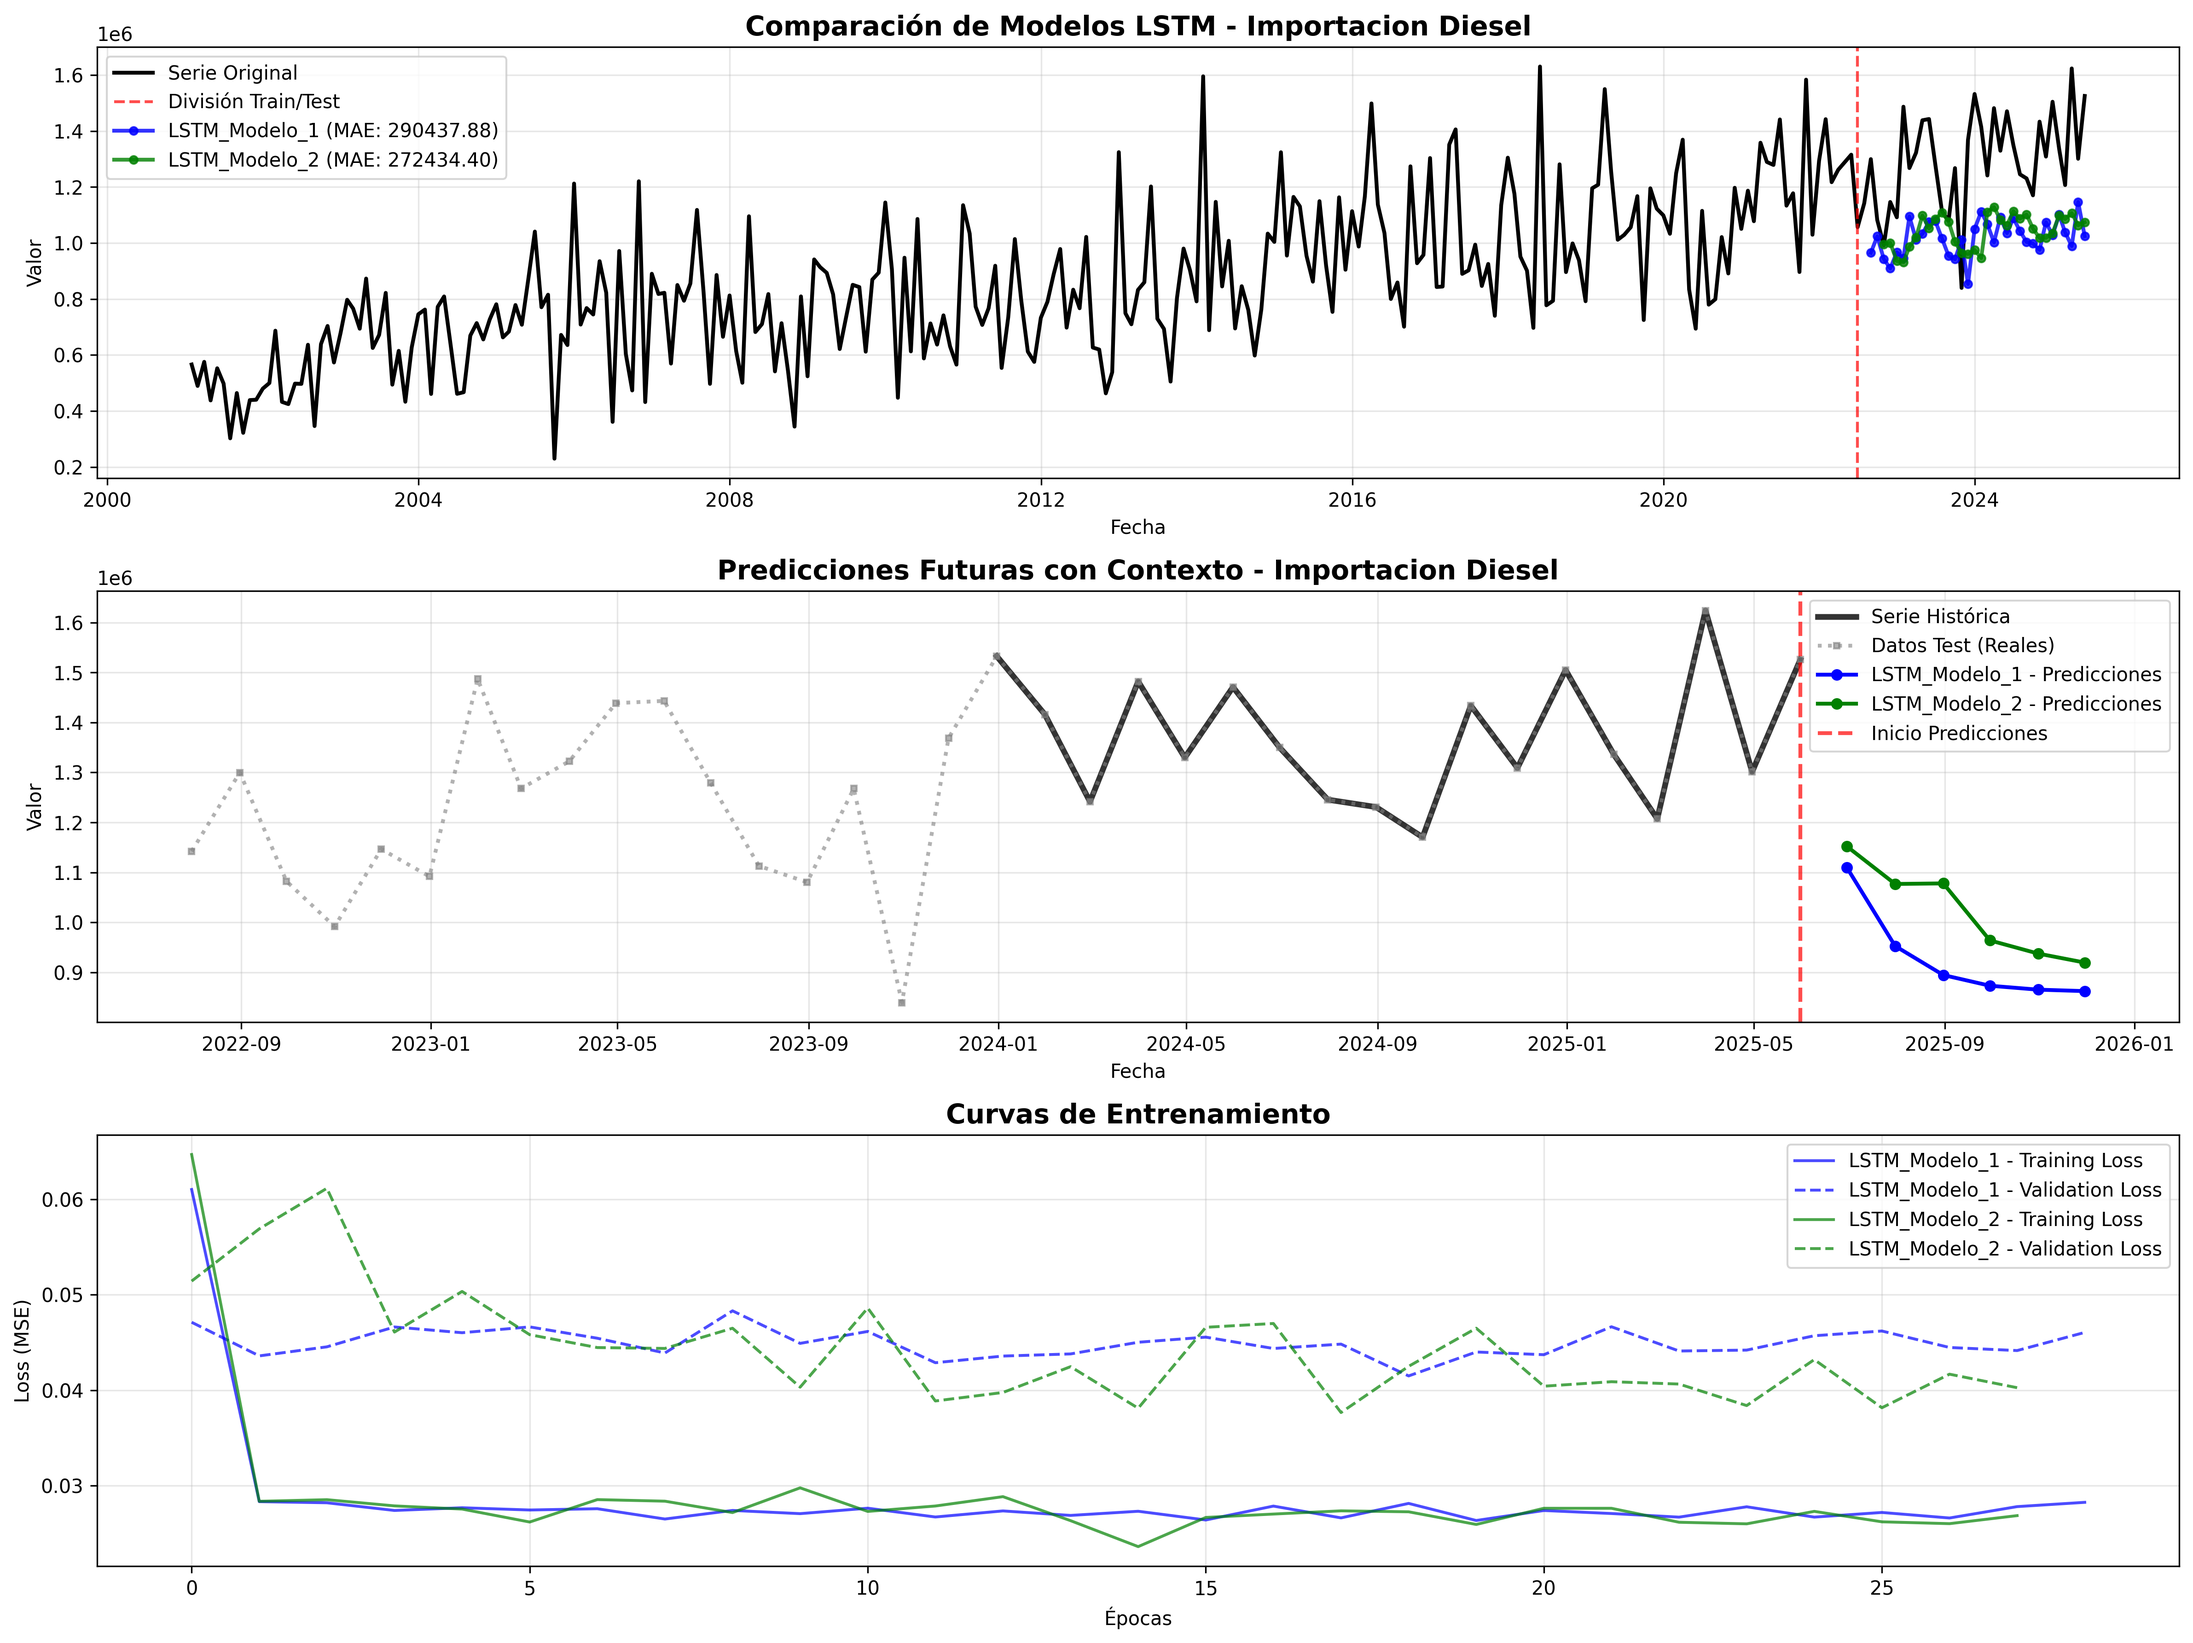
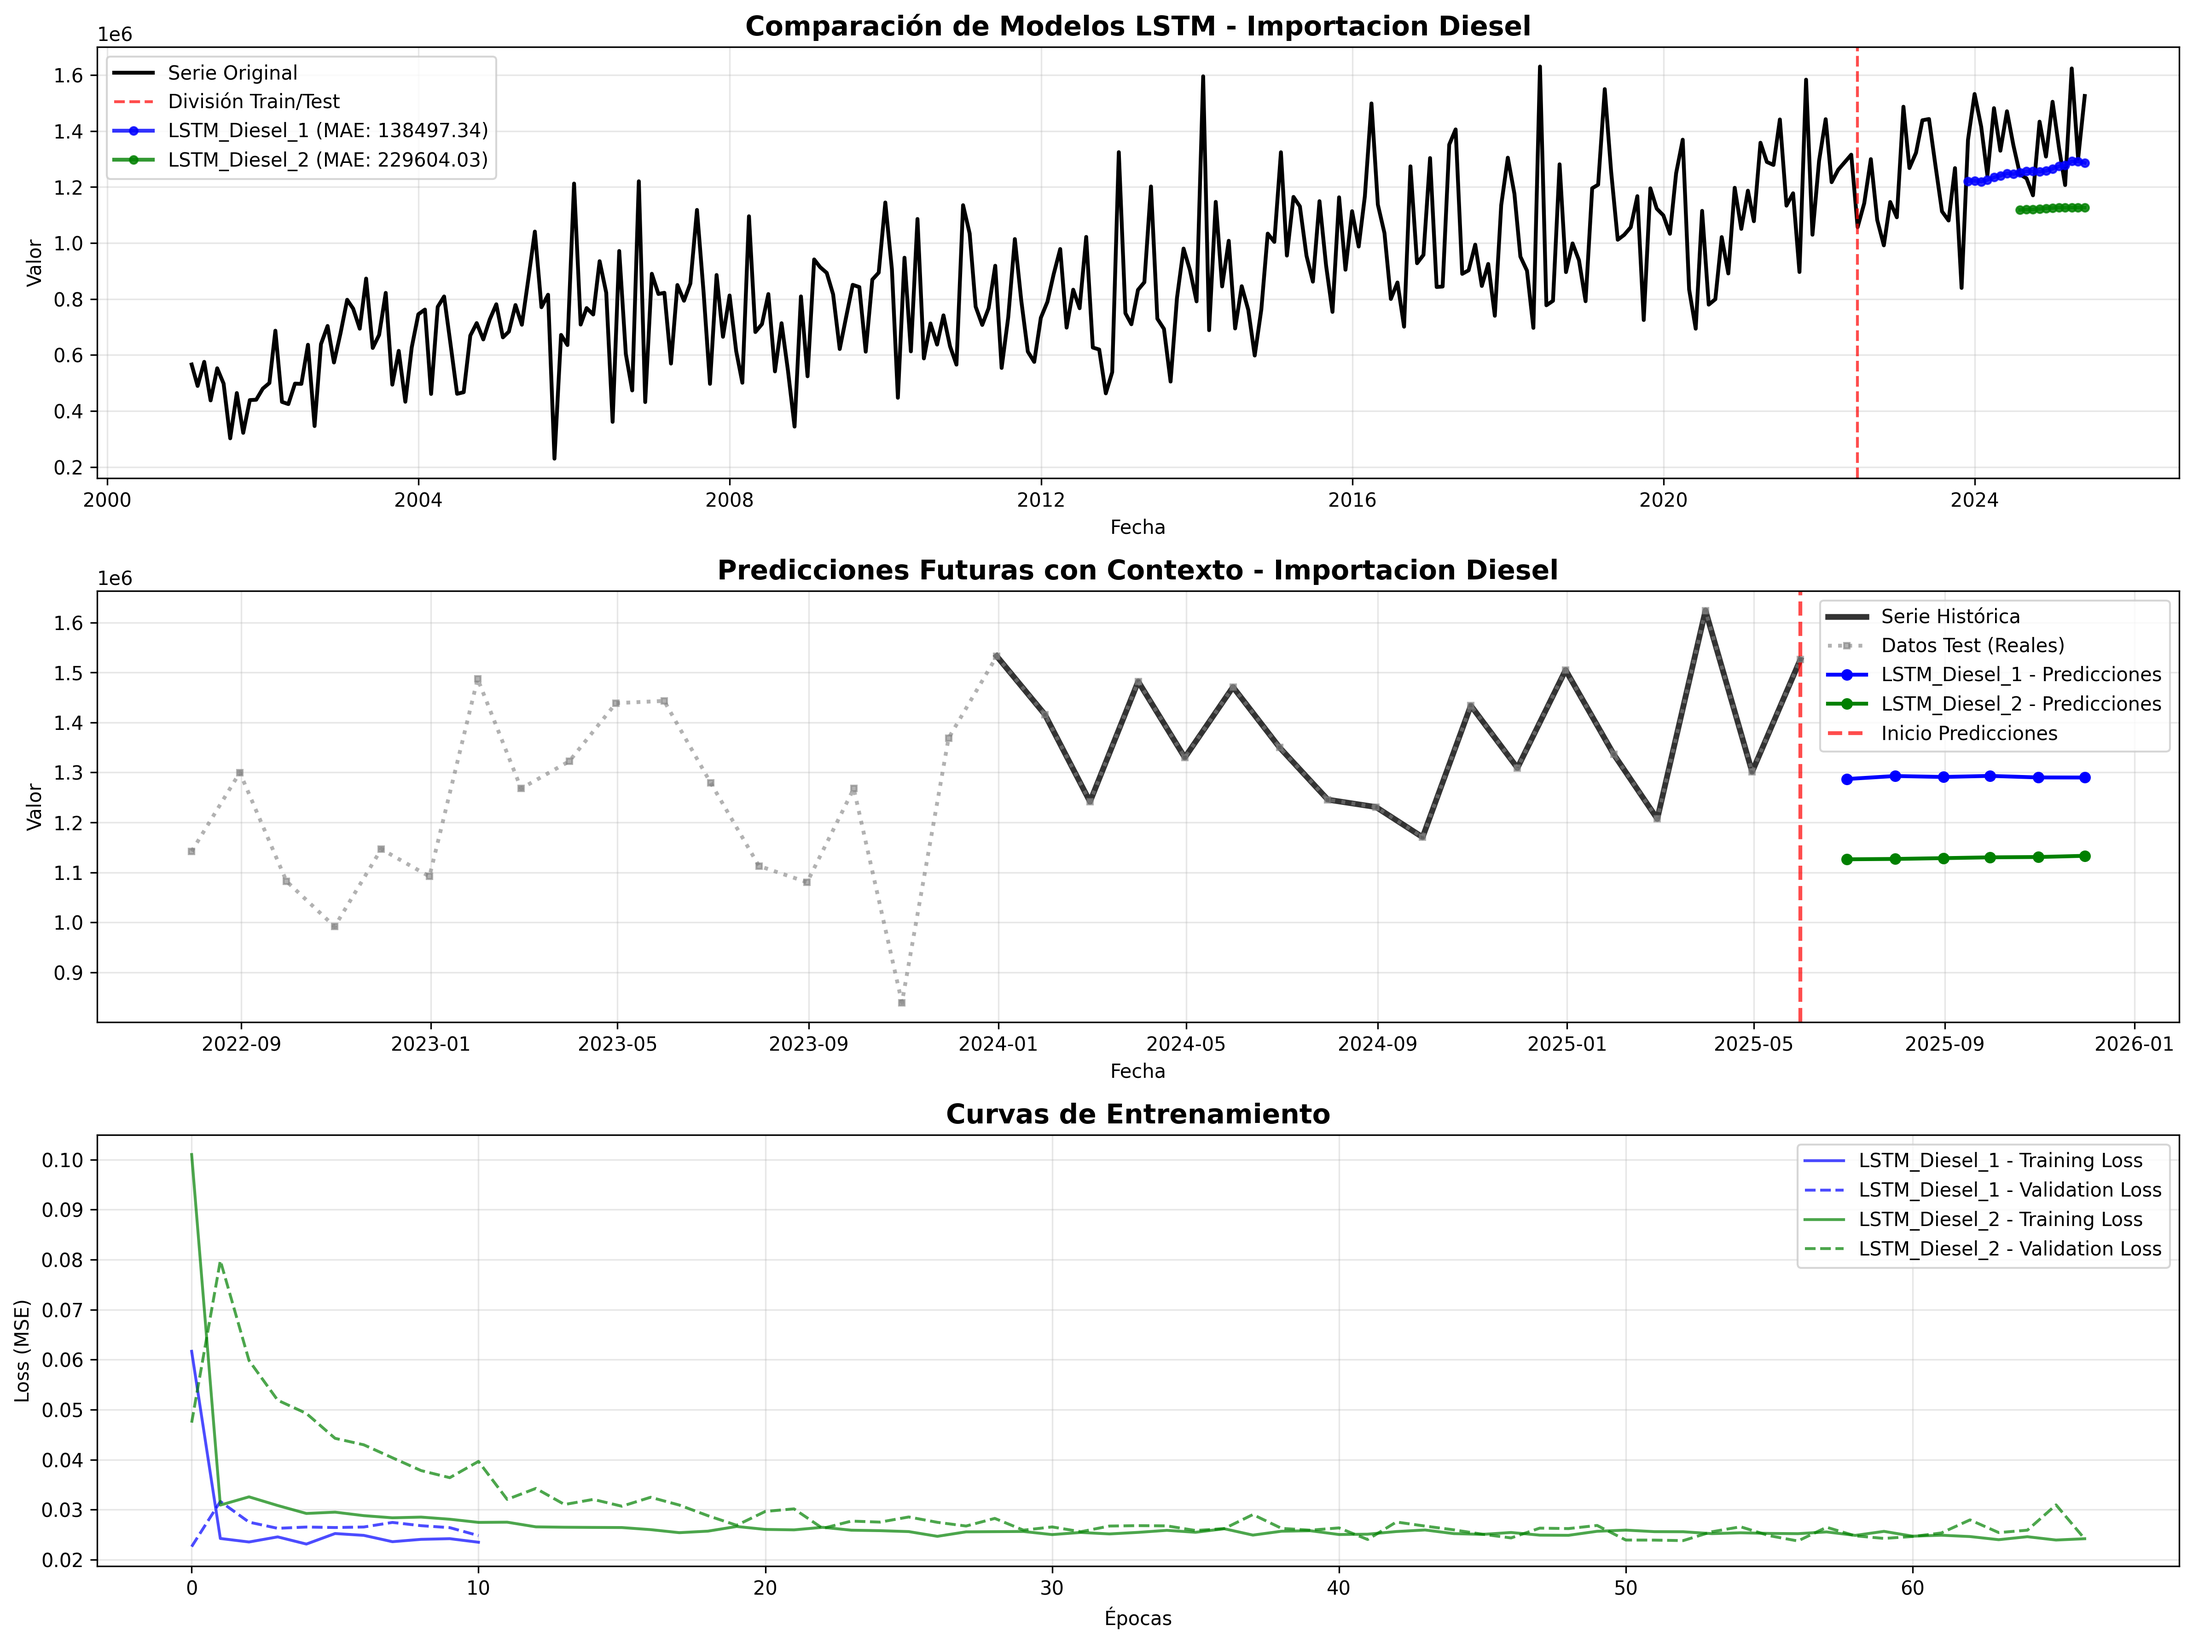
Separated models for each series

diff --git a/lab2.py b/lab2.py
@@ -232,23 +232,45 @@ series_analizar = {
 
 # configuraciones lstm adaptadas
 configuraciones_lstm = {
-    'LSTM_Modelo_1': {
-        'n_steps': 1, 
-        'lstm_units': 64,
-        'dropout_rate': 0.2,
-        'learning_rate': 0.001,
-        'layers': 2,
-        'epochs': 300,
-        'batch_size': 2
+    'Importacion_Diesel': {
+        'LSTM_Diesel_1': {
+            'n_steps': 16, 
+            'lstm_units': 128,
+            'dropout_rate': 0.2,
+            'learning_rate': 0.001,
+            'layers': 3,
+            'epochs': 500,
+            'batch_size': 8
+        },
+        'LSTM_Diesel_2': {
+            'n_steps':24, 
+            'lstm_units': 300,
+            'dropout_rate': 0.15,
+            'learning_rate': 0.0007,
+            'layers': 6,
+            'epochs': 350,
+            'batch_size': 6
+        }
     },
-    'LSTM_Modelo_2': {
-        'n_steps': 3, 
-        'lstm_units': 128,
-        'dropout_rate': 0.5,
-        'learning_rate': 0.0005,
-        'layers': 4,
-        'epochs': 450,
-        'batch_size': 3
+    'Consumo_Gasolina_Superior': {
+        'LSTM_Gasolina_1': {
+            'n_steps': 3, 
+            'lstm_units': 128,
+            'dropout_rate': 0.5,
+            'learning_rate': 0.0005,
+            'layers': 4,
+            'epochs': 450,
+            'batch_size': 3
+        },
+        'LSTM_Gasolina_2': {
+            'n_steps': 1, 
+            'lstm_units': 64,
+            'dropout_rate': 0.2,
+            'learning_rate': 0.001,
+            'layers': 2,
+            'epochs': 300,
+            'batch_size': 2
+        }
     }
 }
 
@@ -262,6 +284,7 @@ resultados_lstm = {}
 mejores_modelos = {}
 
 for nombre_serie, serie in series_analizar.items():
+    configs_serie = configuraciones_lstm.get(nombre_serie, {})
     print(f"\nanálisis lstm: {nombre_serie.replace('_', ' ')}")
     
     train, test, fecha_corte = crear_conjuntos_entrenamiento_prueba(serie)
@@ -278,7 +301,7 @@ for nombre_serie, serie in series_analizar.items():
     mejor_mae = float('inf')
     mejor_config_nombre = None
     
-    for config_name, config in configuraciones_lstm.items():
+    for config_name, config in configs_serie.items():
         print(f"\nentrenando: {config_name}")
         print(f"parámetros:")
         print(f"   ventana temporal (n_steps): {config['n_steps']}")
